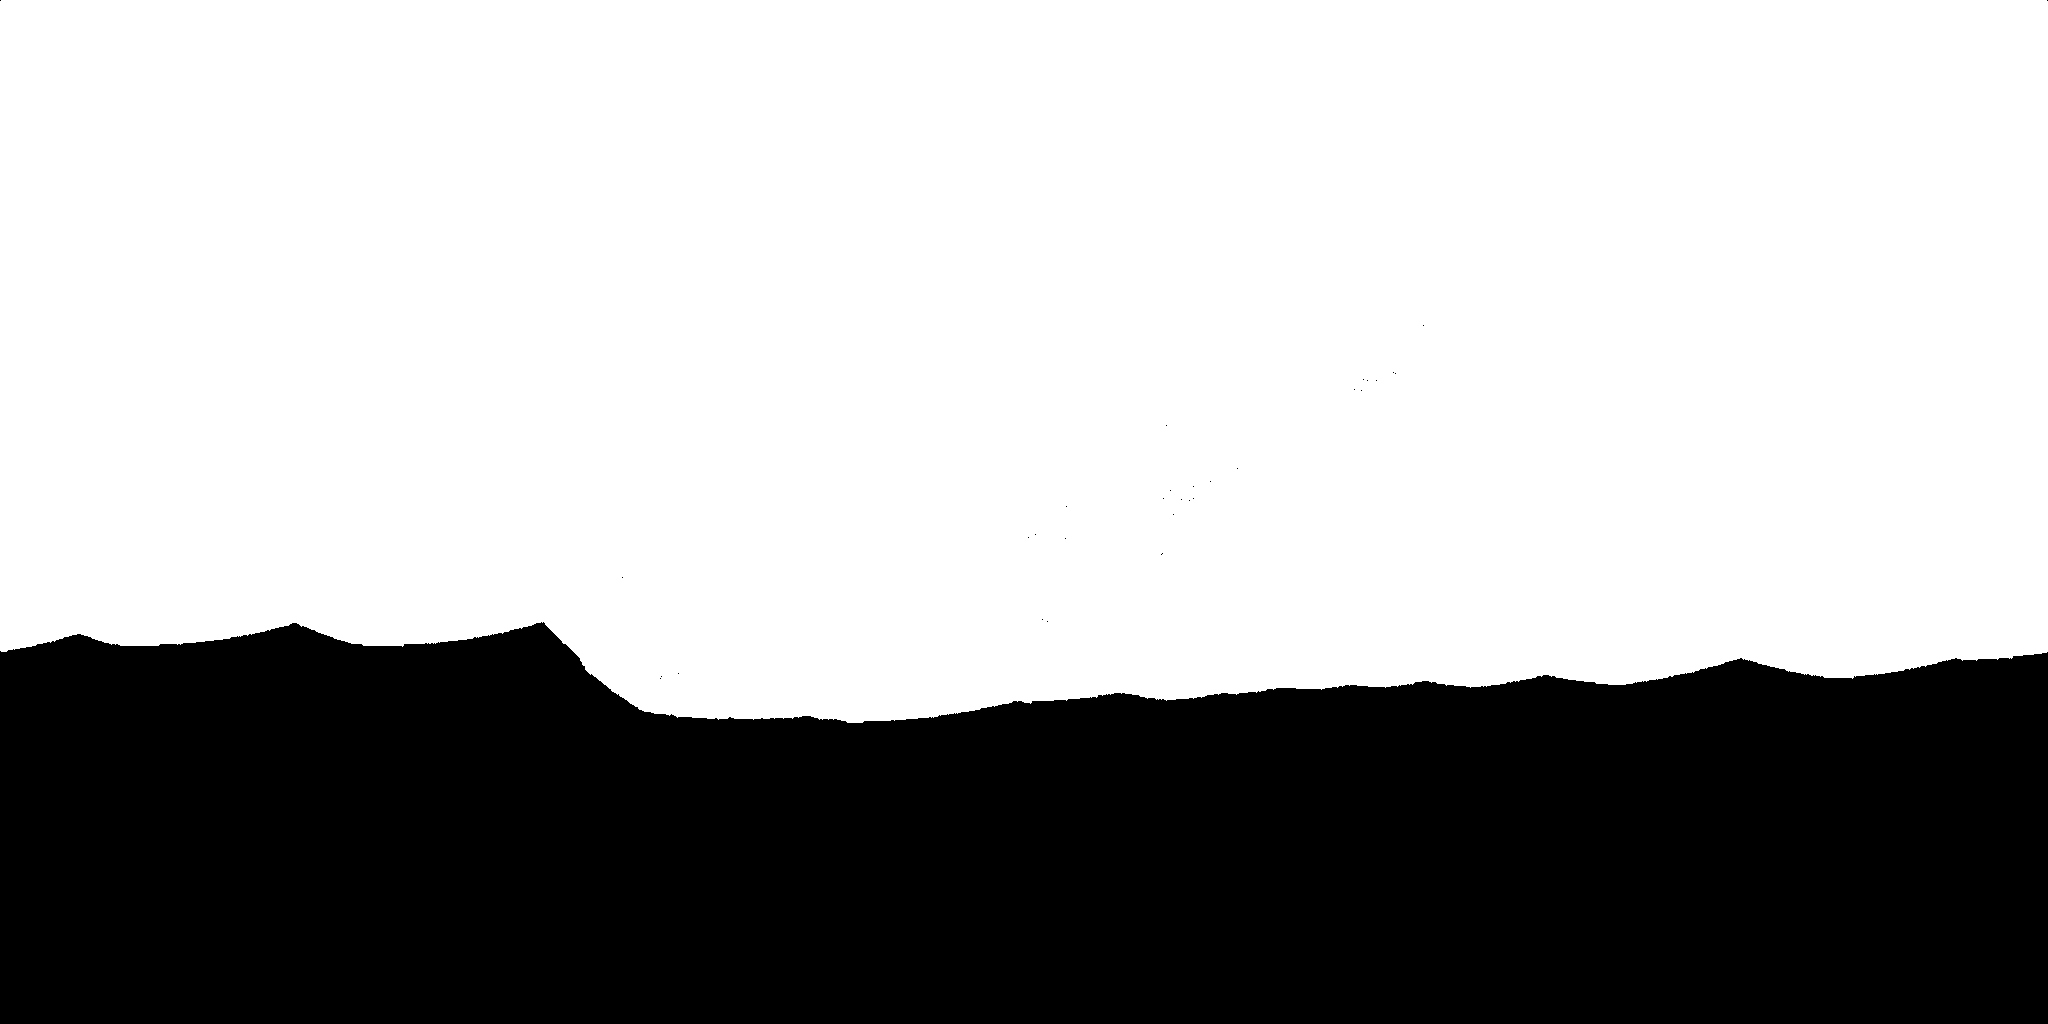
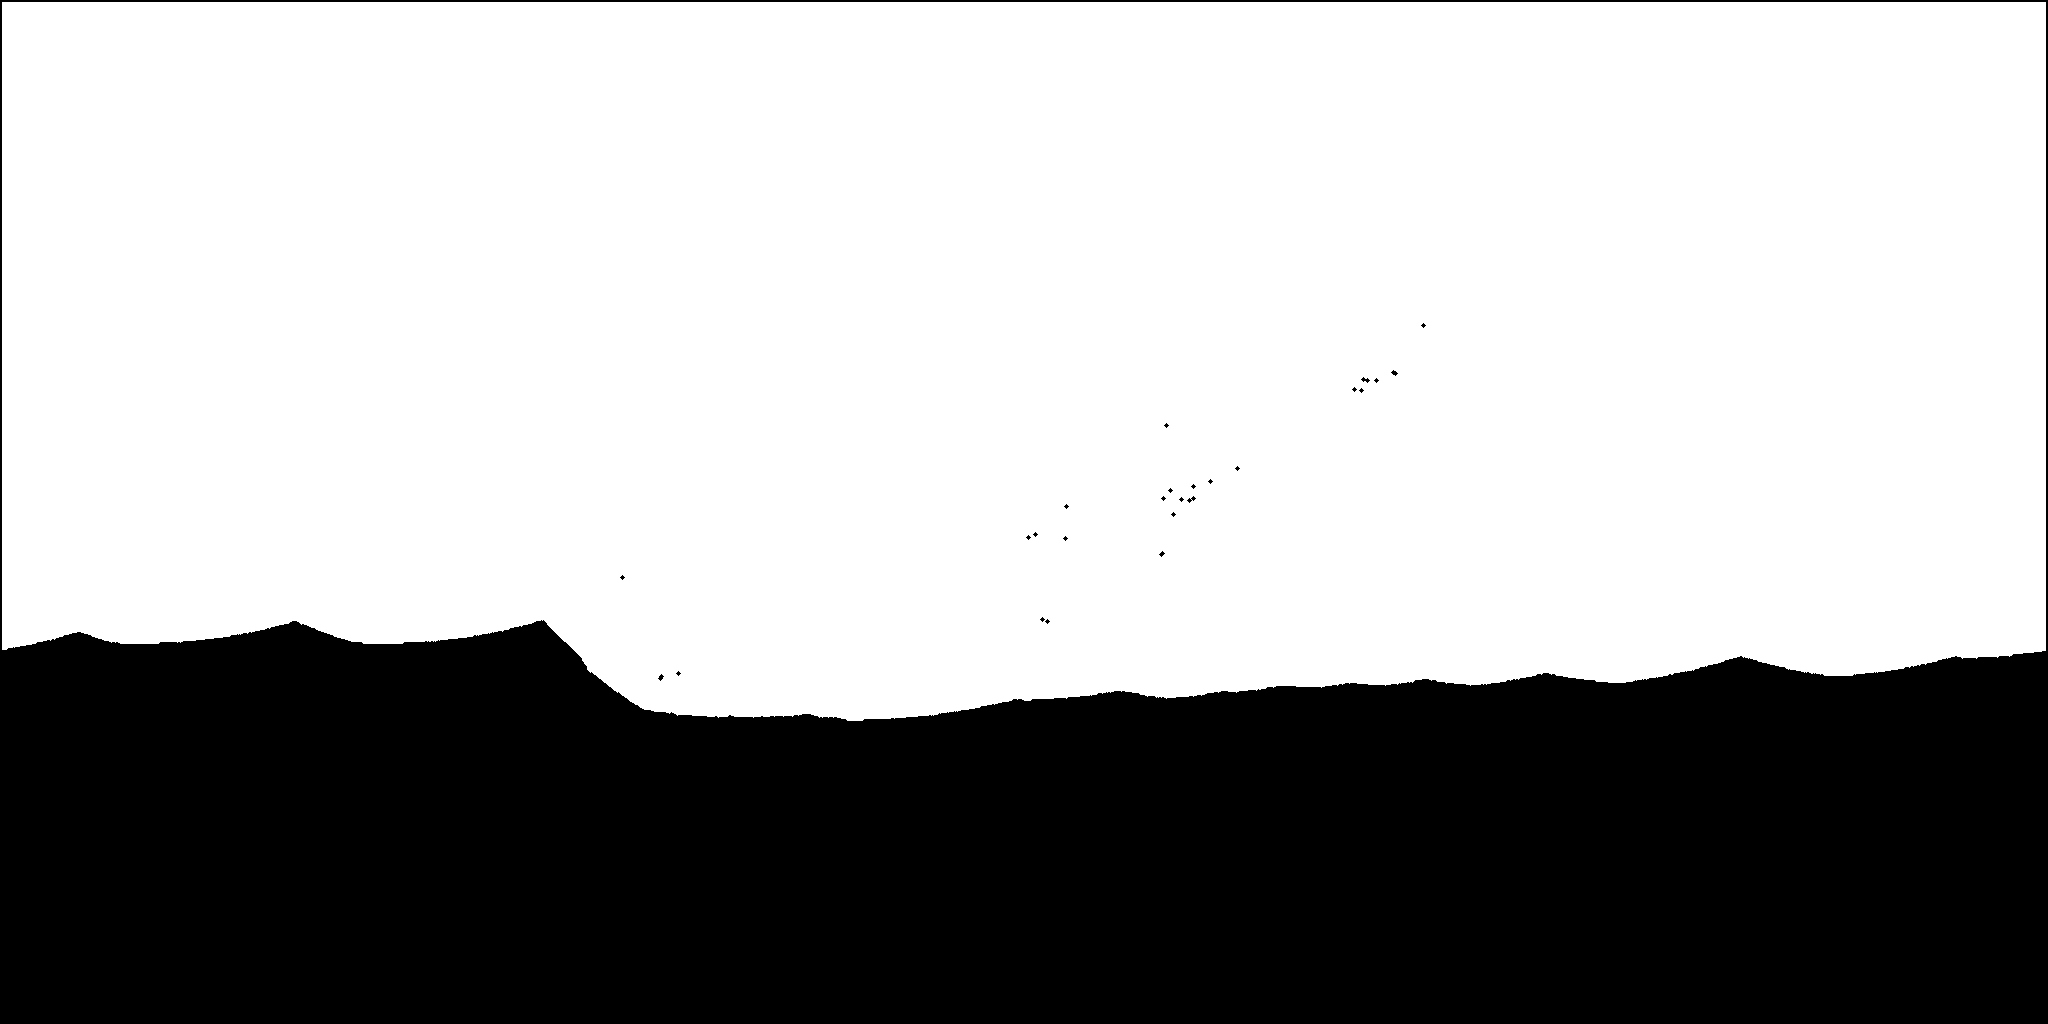
AST-381-03 iter 6: data mask excludes a 0.4° darkened rim (the remaining boundary line is in the source mosaics' rim pixels)

diff --git a/tools/ingest/partial_recon.py b/tools/ingest/partial_recon.py
@@ -79,7 +79,11 @@ for name, thr in BODIES.items():
         src = os.path.join(ROOT, f'public/assets/tex/{name}{suf}.jpg')
         if not os.path.exists(src): continue
         g = np.asarray(Image.open(src).convert('L'), float) / 255.0
-        m = ndimage.binary_opening(g > max(thr, 1.5 / 255), iterations=1)
+        # rim pixels of the source mosaics are darkened (low-Sun / terminator photometry, JPEG ringing against the black
+        # fill): rendered as a thin dark line along every boundary in iteration 5 even with normalised filtering. The data
+        # mask therefore excludes a 0.4° rim (iteration 6) — those pixels are treated as unobserved, never altered.
+        rim_px = max(1, int(round(0.4 * g.shape[0] / 180)))
+        m = ndimage.binary_erosion(ndimage.binary_opening(g > max(thr, 1.5 / 255), iterations=1), iterations=rim_px)
         Image.fromarray((m * 255).astype(np.uint8)).save(os.path.join(ROOT, f'public/assets/tex/{name}_mask{suf}.jpg'), quality=98)
         stats[name]['mask' + suf] = list(g.shape)
 json.dump(stats, open(os.path.join(ROOT, 'docs/assets/provenance/partial-recon-v381.json'), 'w'), indent=1)
